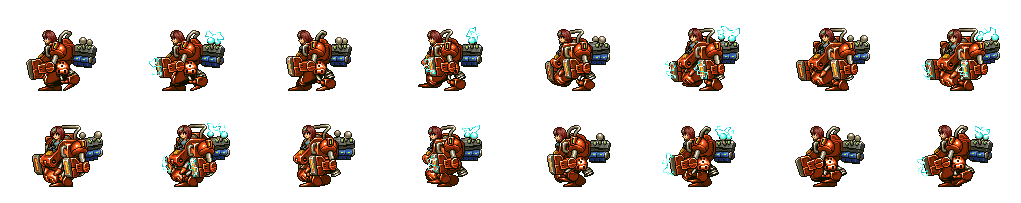
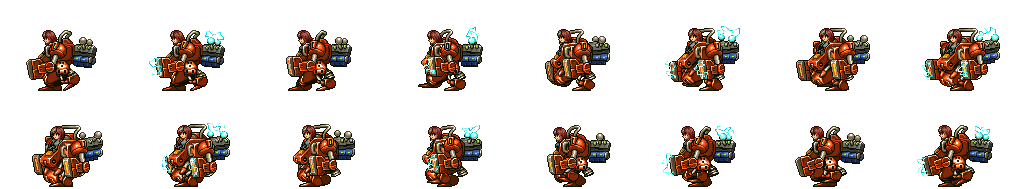
project

diff --git a/MainOb.cpp b/MainOb.cpp
@@ -43,17 +43,10 @@ void MainOb::set_clips()
 {
     if (width_frame_ > 0 && height_frame_ > 0)
     {
-        for (int i = 0 ; i < 8; i++)
+        for (int i = 0; i < 16; i++)
         {
-            frame_clip_[i].x = i*width_frame_;
-            frame_clip_[i].y = 0;
-            frame_clip_[i].w = width_frame_;
-            frame_clip_[i].h = height_frame_;
-        }
-        for (int i = 0 ; i < 8; i++)
-        {
-            frame_clip_[i].x = i*width_frame_;
-            frame_clip_[i].y = height_frame_;
+            frame_clip_[i].x = (i % 8) * width_frame_; // Chia 8 frame mỗi hàng
+            frame_clip_[i].y = (i / 8) * height_frame_; // Xuống hàng sau 8 frame
             frame_clip_[i].w = width_frame_;
             frame_clip_[i].h = height_frame_;
         }
@@ -61,7 +54,7 @@ void MainOb::set_clips()
     }
 }
 
-void MainOb::Show(SDL_Renderer* des)
+void MainOb::Show(SDL_Renderer* des, Map& map_data)
 {
     if(status_ == Walk_Left)
     {
@@ -86,8 +79,8 @@ void MainOb::Show(SDL_Renderer* des)
         frame_ = 0;
     }
 
-    rect_.x = x_pos_ - map_x_;
-    rect_.y = y_pos_ - map_y_;
+    rect_.x = x_pos_ - map_data.start_x_;
+    rect_.y = y_pos_ - map_data.start_y_;
 
     SDL_Rect* current_clips = &frame_clip_[frame_];
 
@@ -103,17 +96,19 @@ void MainOb::HandelInputAction(SDL_Event events, SDL_Renderer* screen)
         switch (events.key.keysym.sym)
         {
         case SDLK_RIGHT:
-            {
-                status_ = Walk_Right;
-                input_type_.right_ = 1;
-                input_type_.left_ = 0;
-            }
+            status_ = Walk_Right;
+            input_type_.right_ = 1;
+            input_type_.left_ = 0;
             break;
         case SDLK_LEFT:
+            status_ = Walk_Left;
+            input_type_.left_ = 1;
+            input_type_.right_ = 0;
+            break;
+        case SDLK_UP:
+            if (on_ground_)
             {
-                status_ = Walk_Left;
-                input_type_.left_ = 1;
-                input_type_.right_ = 0;
+                input_type_.jump_ = 1;
             }
             break;
         }
@@ -123,23 +118,42 @@ void MainOb::HandelInputAction(SDL_Event events, SDL_Renderer* screen)
         switch (events.key.keysym.sym)
         {
         case SDLK_RIGHT:
-            {
-                input_type_.right_ = 0;
-            }
+            input_type_.right_ = 0;
             break;
         case SDLK_LEFT:
-            {
-                input_type_.left_ = 0;
-            }
+            input_type_.left_ = 0;
+            break;
+         case SDLK_UP:
+            input_type_.jump_ = 0;
             break;
         }
     }
+
+    if (events.type == SDL_KEYDOWN)
+    {
+        if (events.key.keysym.sym == SDLK_UP)
+        {
+            if (on_ground_)   // Chỉ cho phép nhảy khi đang đứng trên đất
+            {
+                input_type_.jump_ = 1;
+            }
+        }
+    }
+
+    if (events.type == SDL_KEYUP)
+    {
+        if (events.key.keysym.sym == SDLK_UP)
+        {
+            input_type_.jump_ = 0; // Reset trạng thái nhảy khi nhả phím
+        }
+    }
+
 }
 
 void MainOb::Do_Player(Map& map_data)
 {
     x_val_ = 0;
-    y_val_ += 0.8;
+    y_val_ += GRAVITY;
 
     if (y_val_ >= MAX_FALL_SPEED)
     {
@@ -153,6 +167,12 @@ void MainOb::Do_Player(Map& map_data)
     else if (input_type_.right_ == 1)
     {
         x_val_ += PLAYER_SPEED;
+    }
+
+    if (input_type_.jump_ == 1 && on_ground_)
+    {
+        y_val_= - PLAYER_JUMP_VAL;
+        on_ground_ = false;
     }
 
     CheckToMap(map_data);
@@ -198,28 +218,28 @@ void MainOb::CheckToMap(Map& map_data)
     x2 = (x_pos_ + x_val_ + width_frame_ - 1)/TILE_SIZE; // tru di mot luong nho de check va cham
 
     y1 = (y_pos_) / TILE_SIZE;
-    y2 + (y_pos_ + height_min - 1)/TILE_SIZE;
+    y2 = (y_pos_ + height_min - 1)/TILE_SIZE;
 
     if (x1 >= 0 && x2 < MAX_MAP_X && y1 >= 0 && y2 < MAX_MAP_Y)
     {
-        if (x_val_ > 0) // nhan vat dang di chuyen sang phai
+        if (x_val_ > 0) // Di chuyển sang phải
         {
             if (map_data.tile[y1][x2] != BLANK_TILE || map_data.tile[y2][x2] != BLANK_TILE)
             {
-                x_pos_ = x2*TILE_SIZE;
-                x_pos_ -= width_frame_ + 1;
+                x_pos_ = x2 * TILE_SIZE - width_frame_; // Căn nhân vật vào sát mép trái tile
                 x_val_ = 0;
             }
         }
-        else if (x_val_ < 0) // di lui
+        else if (x_val_ < 0) // Di chuyển sang trái
         {
             if (map_data.tile[y1][x1] != BLANK_TILE || map_data.tile[y2][x1] != BLANK_TILE)
             {
-                x_pos_ = (x1 + 1)*TILE_SIZE;
+                x_pos_ = (x1 + 1) * TILE_SIZE; // Đặt nhân vật ở mép phải tile
                 x_val_ = 0;
             }
         }
     }
+
 
     //check theo chieu doc
     int width_min = width_frame_ < TILE_SIZE ? width_frame_ : TILE_SIZE;
@@ -231,24 +251,20 @@ void MainOb::CheckToMap(Map& map_data)
 
     if (x1 >= 0 && x2 < MAX_MAP_X && y1 >= 0 && y2 < MAX_MAP_Y)
     {
-        if (y_val_ > 0) // trang thai roi tu do
+        if (y_val_ > 0) // Rơi xuống
         {
             if (map_data.tile[y2][x1] != BLANK_TILE || map_data.tile[y2][x2] != BLANK_TILE)
             {
-                y_pos_ = y2* TILE_SIZE;
-                y_pos_ -= (height_frame_ + 1);
+                y_pos_ = y2 * TILE_SIZE - height_frame_; // Căn nhân vật lên trên tile
                 y_val_ = 0;
-                on_ground_ = true;
+                on_ground_ = true; // Đánh dấu nhân vật đang đứng trên mặt đất
             }
-        }
-        else if (y_val_ < 0) // trang thai nhay
-        {
-            if (map_data.tile[y1][x1] != BLANK_TILE || map_data.tile[y1][x2] != BLANK_TILE)//truong hop map o giua khong trung
+            else
             {
-                y_pos_ = (y1 + 1)*TILE_SIZE;
-                y_val_ = 0;
+                on_ground_ = false; // Không va chạm => đang rơi
             }
         }
+
     }
 
     x_pos_ += x_val_;
@@ -260,7 +276,7 @@ void MainOb::CheckToMap(Map& map_data)
     }
     else if (x_pos_ + width_frame_ > map_data.max_x_)
     {
-        x_pos_ = map_data.max_x_ - width_frame_ - 1;
-
+        x_pos_ = map_data.max_x_ - width_frame_;
     }
+
 }

diff --git a/main.cpp b/main.cpp
@@ -2,6 +2,7 @@
 #include "BaseObject.h"
 #include "Game_map.h"
 #include "MainOb.h"
+#include "Timer.h"
 
 BaseObject g_background;
 
@@ -39,7 +40,7 @@ bool InitData()
 
 bool LoadBackground()
 {
-    bool ret = g_background.LoadImg("image/background.png", g_screen);
+    bool ret = g_background.LoadImg("image/Game_Background_150.jpg", g_screen);
     if(ret == false)
         return false;
 
@@ -61,7 +62,10 @@ void close()
 }
 
 
-int main(int argc, char* argv[]) {
+int main(int argc, char* argv[])
+{
+    ImpTimer fps_timer;
+
     if (InitData() == false) {
         return -1;
     }
@@ -82,6 +86,7 @@ int main(int argc, char* argv[]) {
 
     bool is_quit = false;
     while (!is_quit) {
+        fps_timer.start();
         while (SDL_PollEvent(&g_event) != 0) {
             if (g_event.type == SDL_QUIT) {
                 is_quit = true;
@@ -95,11 +100,29 @@ int main(int argc, char* argv[]) {
         SDL_RenderClear(g_screen);
 
         g_background.Render(g_screen, NULL);
+
         game_map.DrawMap(g_screen);
 
-        p_player.Show(g_screen);
+        Map map_data = game_map.getMap();
+
+        p_player.SetMapXY(map_data.start_x_, map_data.start_y_);
+        p_player.Do_Player(map_data);
+        p_player.Show(g_screen, map_data);
+
+        game_map.SetMap(map_data);
+        game_map.DrawMap(g_screen);
 
         SDL_RenderPresent(g_screen);
+
+        int real_imp_time = fps_timer.get_ticks(); // thoi gian thuc su da troi qua
+        int time_one_frame = 1000/FRAME_PER_SECOND; // ms
+
+        if (real_imp_time < time_one_frame)
+        {
+            int delay_time = time_one_frame - real_imp_time; // tao do tre de can bang
+            if (delay_time >= 0)
+                SDL_Delay(delay_time);
+        }
     }
 
     close();

diff --git a/MainOb.h b/MainOb.h
@@ -7,6 +7,8 @@
 #define GRAVITY_SPEED 0.8 //toc do roi
 #define MAX_FALL_SPEED 10 //toc do roi toi da
 #define PLAYER_SPEED 8 // toc do nhan vat
+#define PLAYER_JUMP_VAL 15
+#define GRAVITY 0.8
 
 class MainOb : public BaseObject
 {
@@ -20,7 +22,7 @@ public:
         Walk_Left = 1,
     };
     bool LoadImg(std::string path, SDL_Renderer* screen);
-    void Show(SDL_Renderer* des);
+    void Show(SDL_Renderer* des, Map& map_data);
     void HandelInputAction(SDL_Event events, SDL_Renderer* screen);
     void set_clips(); // xu li ve animation
 

diff --git a/CommonFunc.h b/CommonFunc.h
@@ -14,6 +14,7 @@ static SDL_Window* g_window = NULL;
 static SDL_Renderer* g_screen = NULL;
 static SDL_Event g_event;
 
+const int FRAME_PER_SECOND = 37; // fps
 const int SCREEN_WIDTH = 1280;
 const int SCREEN_HEIGHT = 640;
 const int SCREEN_BPP = 32;
@@ -24,7 +25,7 @@ const int COLOR_KEY_B = 180;
 
 const int RENDER_DRAW_COLOR = 0xff;
 
-
+#define BLANK_TILE 0
 #define TILE_SIZE 64
 
 #define MAX_MAP_X 400

diff --git a/Game_map.h b/Game_map.h
@@ -4,7 +4,7 @@
 #include "CommonFunc.h"
 #include "BaseObject.h"
 
-#define MAX_TILES 20
+#define MAX_TILES 14
 
 class TileMat : public BaseObject
 {
